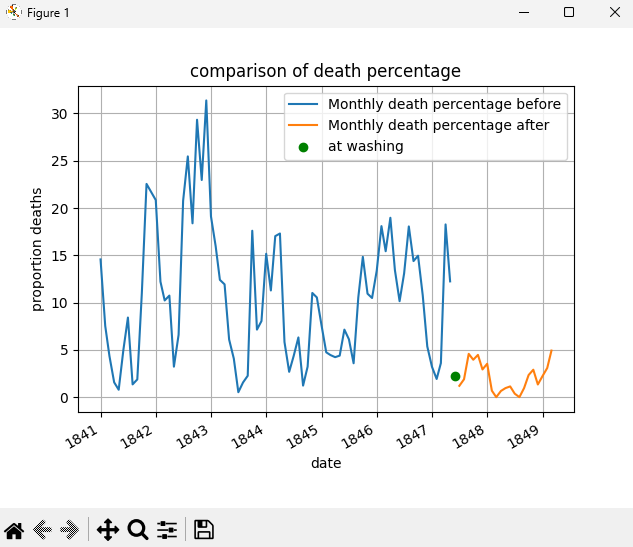
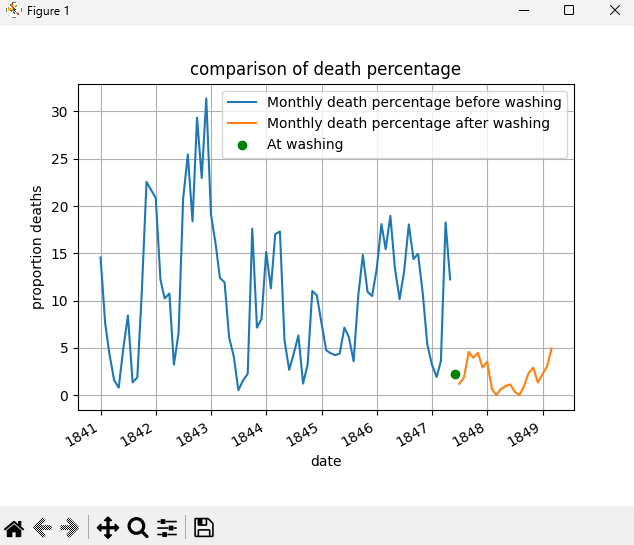
Ajuste no gráfico mensal

diff --git a/drSemmelweisPython/SemmelweisMonthly.py b/drSemmelweisPython/SemmelweisMonthly.py
@@ -37,11 +37,11 @@ print("confidence interval: ", confidence_interval)
 fig, ax = plt.subplots()
 
 #plotando ambos os graficos
-before_washing.plot(x='date', y='proportion_deaths', label='Monthly death percentage before', ax=ax, legend=True)
-after_washing.plot(x='date', y='proportion_deaths', label='Monthly death percentage after', ax=ax, legend=True)
+before_washing.plot(x='date', y='proportion_deaths', label='Monthly death percentage before washing', ax=ax, legend=True)
+after_washing.plot(x='date', y='proportion_deaths', label='Monthly death percentage after washing', ax=ax, legend=True)
 
 #plotando o ponto referente a onde se passou a lavar as maos
-ax.scatter(x=at_washing['date'], y=at_washing['proportion_deaths'], color='green', marker='o', label='at washing')
+ax.scatter(x=at_washing['date'], y=at_washing['proportion_deaths'], color='green', marker='o', label='At washing')
 
 ax.set_xlabel('date')
 ax.set_ylabel('proportion deaths')
